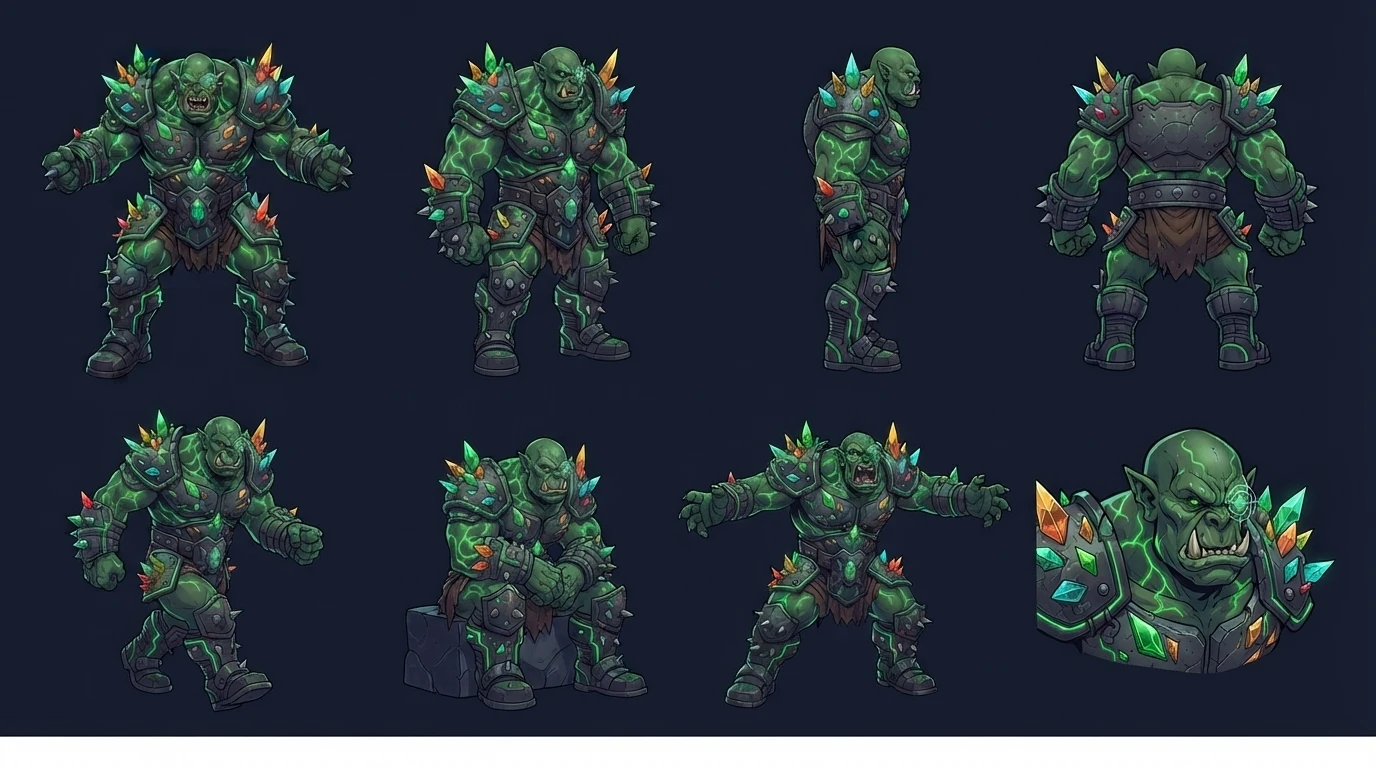
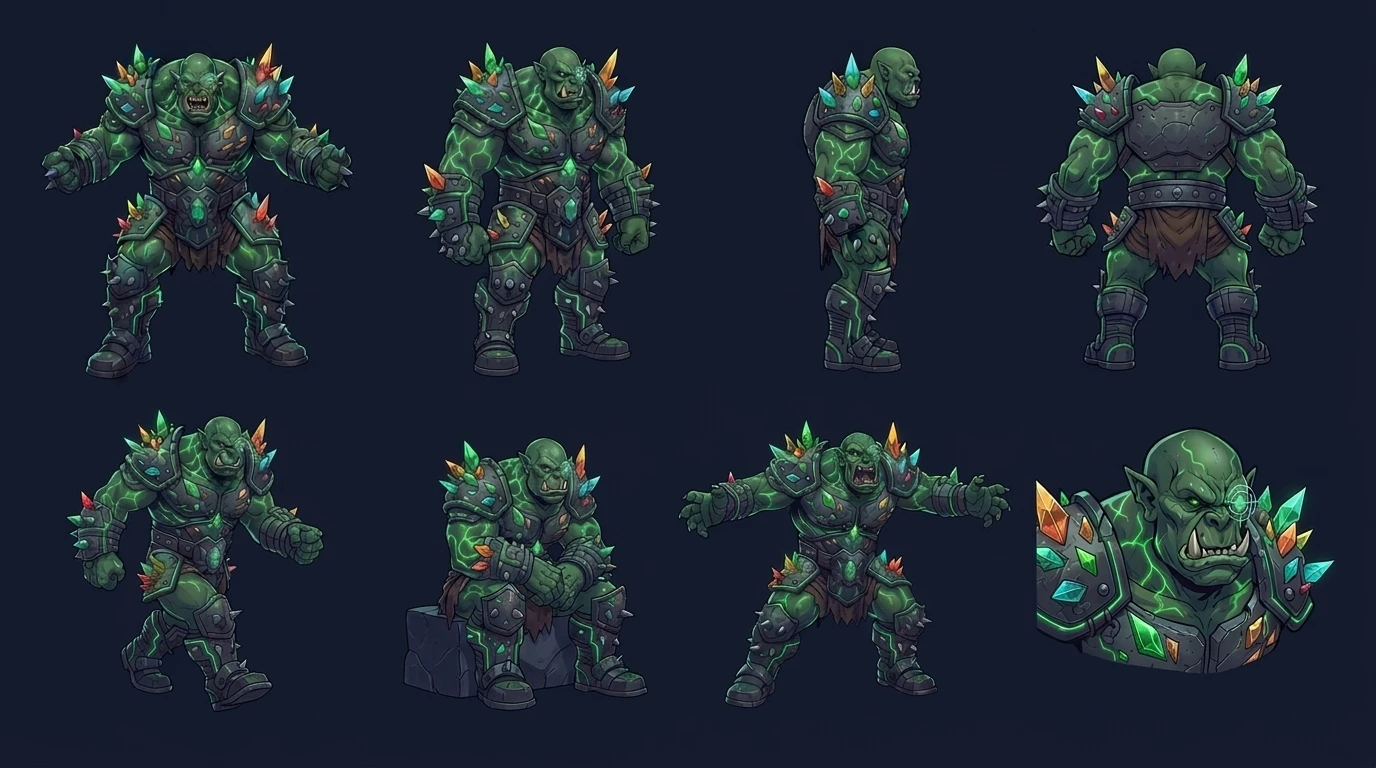
content(escenas): hojas del Dragón de los Talleres, el Borrón y Pico; el Orco sin franja

diff --git a/scripts/escenas/hojas.py b/scripts/escenas/hojas.py
@@ -27,7 +27,7 @@ SKIP = {('14674491267148198305', 'Gheco'), ('12272294721581088244', 'Gheco')}
 COMMON = 'Copiá fielmente su diseño, cara, colores, ropa, accesorios y proporciones, sin rediseñarlo ni embellecerlo. Es UN SOLO personaje repetido. Fondo azul noche oscuro liso, sin grilla, sin piso y sin decorado. Formato 16:9 (1376×768). Ocho figuras separadas, sin tocarse, del mismo tamaño, cuerpo entero, en dos filas de cuatro.'
 PERSON = 'Fila de arriba, de pie en postura neutra: 1) de frente; 2) tres cuartos; 3) de perfil; 4) de espaldas. Fila de abajo: 5) caminando, con su objeto característico si tiene; 6) sentado; 7) señalando algo con la mano, hablando; 8) primer plano de la cabeza en tres cuartos, para ver bien la cara y el pelo. En TODAS, la misma ropa, opaca y cerrada, sin escote ni panza al aire y sin agregar prendas.'
 BEAST = 'Fila de arriba, en postura neutra: 1) de frente; 2) tres cuartos; 3) de perfil; 4) de espaldas. Fila de abajo: 5) en movimiento; 6) quieto, descansando; 7) amenazando o en acción, con cara expresiva; 8) primer plano de la cabeza. En TODAS, la misma forma, el mismo cuerpo, los mismos colores y detalles. Aspecto apto para alumnos chicos, sin sangre.'
-END = 'Dejá vacío el borde inferior. Imagen solo de dibujo, sin ningún texto, rótulos, flechas, guías ni runas.'
+END = 'Sin rótulos ni palabras debajo de las figuras. Dejá vacío el borde inferior. Imagen solo de dibujo, sin ningún texto, flechas, guías ni runas.'
 
 
 def refs():
